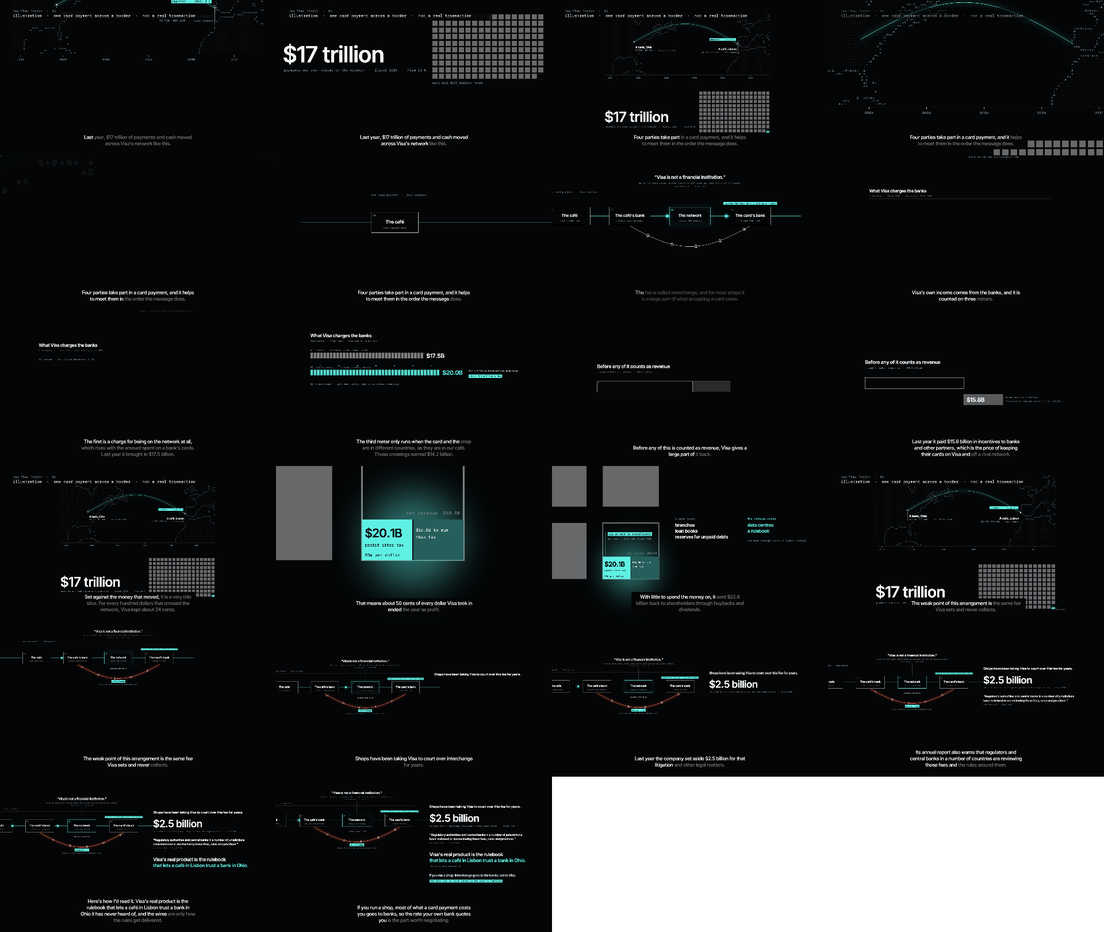
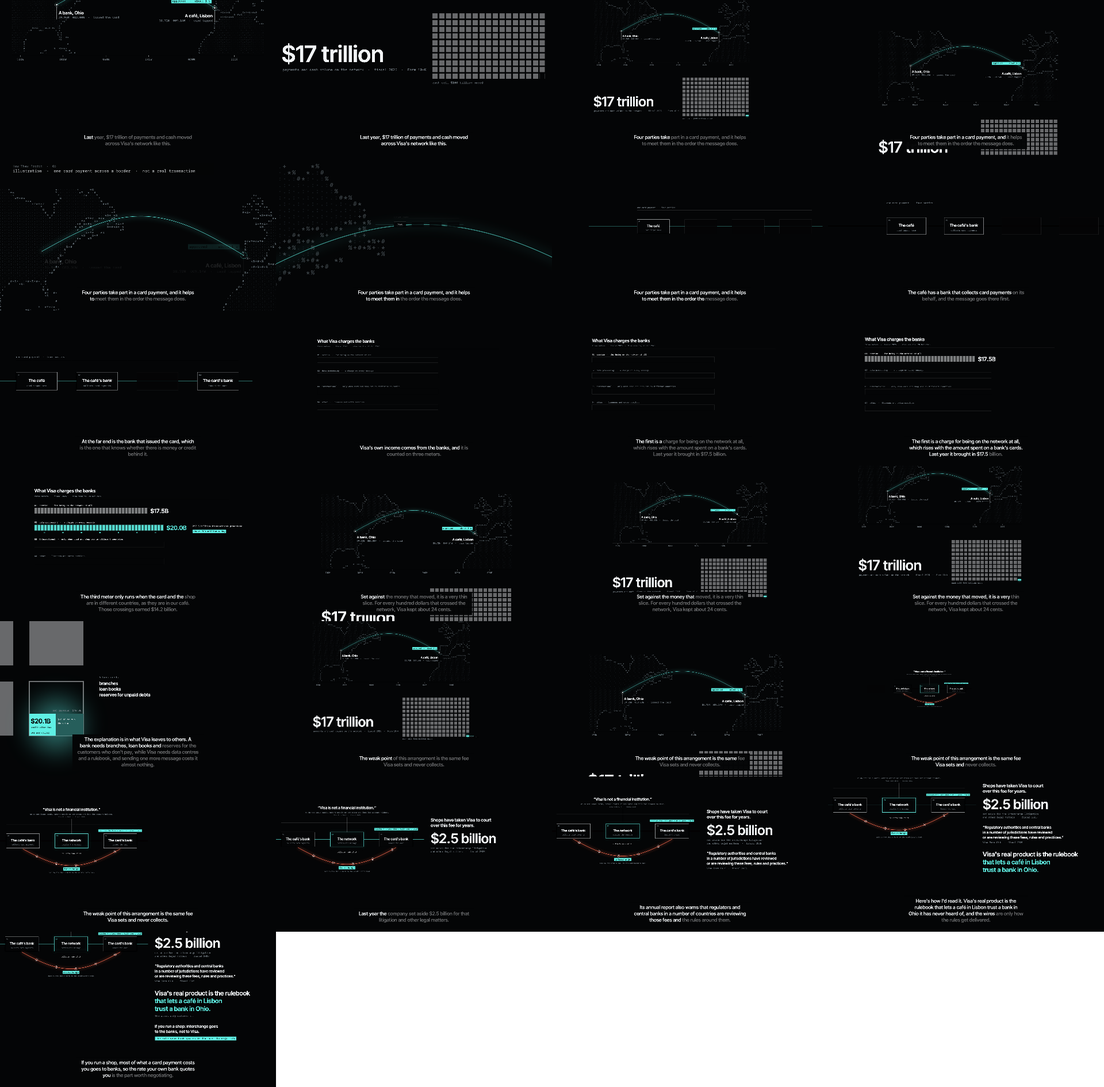
HTP 06 pass 4 after CRITIC_v3: the camera gets over its target before closing in, meter tracks from the first second, a larger last chapter, the four places sketched in

diff --git a/lab/ch2/ep06/flow.py b/lab/ch2/ep06/flow.py
@@ -135,6 +135,10 @@ def ocean(c, t, z=1.0, far=1.0, near=0.0):
 
 
 # ---------------------------------------------------------------- scale 12: the four parties on the wire
+def lerp_(a, b, u):
+    return a + (b - a) * u
+
+
 def lod(z, a, b):
     """Detail that only exists once the camera is close enough to read it."""
     return sm(z, a, b)
@@ -212,14 +216,20 @@ def route(c, t, z):
     k = lod(z, 1.6, 3.2)
     if k <= 0:
         return
-    c.drawLine(NX[0] - 60, NY, NX[3] + NODE_W / 2 + 22, NY, skia.Paint(Color=col(K["acc"], 0.9 * k), AntiAlias=True, StrokeWidth=0.18))
-    text(c, "one card payment  ·  four parties", NX[0] - NODE_W / 2, NY - 17, mono(1.7), K["dim"], k * sm(t, L("four"), L("four") + 0.8), 0.05)
-    c.drawLine(NX[0] - NODE_W / 2, NY - 15, NX[3] + NODE_W / 2, NY - 15, hair(0.35 * k, 0.1))
-    party(c, 0, k * sm(t, L("four") + 1.2, L("four") + 1.9), t)
+    c6_ = sm(t, L("weak") + 1.5, L("weak") + 2.6) if "weak" in tl.IDS else 0.0
+    c.drawLine(lerp_(NX[0] - 60, NX[1] - NODE_W / 2 - 6, c6_), NY, NX[3] + NODE_W / 2 + 10, NY, skia.Paint(Color=col(K["acc"], 0.9 * k), AntiAlias=True, StrokeWidth=0.18))
+    text(c, "one card payment  ·  four parties", NX[0] - NODE_W / 2, NY - 17, mono(1.7), K["dim"], k * sm(t, L("four"), L("four") + 0.8) * (1 - c6_), 0.05)
+    c.drawLine(lerp_(NX[0] - NODE_W / 2, NX[1] - NODE_W / 2, c6_), NY - 15, NX[3] + NODE_W / 2, NY - 15, hair(0.35 * k, 0.1))
+    c6 = sm(t, L("weak") + 1.5, L("weak") + 2.6) if "weak" in tl.IDS else 0.0     # the last chapter frames the three right-hand parties
+    for i in range(4):                                               # the four places, sketched before they are named
+        r = skia.Rect.MakeXYWH(NX[i] - NODE_W / 2, NY - NODE_H / 2, NODE_W, NODE_H)
+        c.drawRect(r, skia.Paint(Color=col(K["bg"], 0.9 * k)))
+        c.drawRect(r, hair(0.2 * k * sm(t, L("four") + 0.6 + 0.2 * i, L("four") + 1.2 + 0.2 * i) * (1 - c6 if i == 0 else 1), 0.1))
+    party(c, 0, k * sm(t, L("four") + 1.2, L("four") + 1.9) * (1 - c6), t)
     party(c, 1, k * sm(t, L("shopbank") + 0.2, L("shopbank") + 0.9), t)
     party(c, 3, k * sm(t, L("yourbank") + 0.2, L("yourbank") + 0.9), t)
     party(c, 2, k * sm(t, L("quote") + 0.2, L("quote") + 0.9), t, hot=True)
-    wire_packets(c, t, k * sm(t, L("quote") + 1.0, L("quote") + 1.6))
+    wire_packets(c, t, k * sm(t, L("quote") + 1.0, L("quote") + 1.6) * (1 - c6))
     # the annual report, set above the network
     kq = sm(t, tl.word("quote", "plain") - 0.2, tl.word("quote", "plain") + 0.5)
     if kq > 0:
@@ -233,9 +243,10 @@ def route(c, t, z):
     # interchange
     ki = sm(t, L("fee") + 0.4, L("fee") + 2.2)
     interchange(c, t, ki)
-    box_label(c, "interchange", (NX[1] + NX[3]) / 2, NY + NODE_H / 2 + 19.5, sm(t, L("interchange") + 0.3, L("interchange") + 0.9), 2.0, "center")
+    gone6 = 1.0 - (sm(t, L("meters") + 0.2, L("meters") + 1.0) if "meters" in tl.IDS else 0.0) + (sm(t, L("weak") + 2.5, L("weak") + 3.5) if "weak" in tl.IDS else 0.0)
+    box_label(c, "interchange", (NX[1] + NX[3]) / 2, NY + NODE_H / 2 + 19.5, sm(t, L("interchange") + 0.3, L("interchange") + 0.9) * (1.0 if gone6 > 0.5 else 0.0), 2.0, "center")
     text(c, "paid by the shop's bank to the cardholder's bank", (NX[1] + NX[3]) / 2, NY + NODE_H / 2 + 22.6, mono(1.35), K["dim"],
-         sm(t, L("interchange") + 1.2, L("interchange") + 1.9), 0.05, "center")
+         sm(t, L("interchange") + 1.2, L("interchange") + 1.9) * min(1.0, gone6), 0.05, "center")
     ks = sm(t, tl.word("sets", "writes") - 0.2, tl.word("sets", "writes") + 0.5)
     c.drawRect(skia.Rect.MakeXYWH(NX[2] - 13, NY + NODE_H / 2 + 1.2, 26, 5.2), skia.Paint(Color=col(K["bg"], 0.92 * ks)))
     text(c, "sets the default rates", NX[2], NY + NODE_H / 2 + 3.0, mono(1.45), K["acc"], ks * (1 - sm(t, L("fee") - 9, L("fee") - 8)), 0.05, "center")
@@ -297,10 +308,12 @@ def _meters(c, t, k0):
     c.drawLine(X0, MT + 5.2, X0 + 150 * k0, MT + 5.2, hair(0.3, 0.1))
     for i, (lid, lab, v, disp, wl, ww) in enumerate(METERS):
         y = MT + 12 + i * 13.0
-        ka = sm(t, L(lid) + 0.2, L(lid) + 0.8) if lid != "processing" else sm(t, L("count") + 0.2, L("count") + 0.8)
+        ka = sm(t, L("meters") + 0.7 + 0.25 * i, L("meters") + 1.3 + 0.25 * i)
         if ka <= 0:
             continue
-        text(c, lab, X0, y - 1.4, mono(1.5), K["dim"], ka, 0.05)
+        on = sm(t, L(lid) + 0.2, L(lid) + 0.8) if lid != "processing" else sm(t, L("count") + 0.2, L("count") + 0.8)
+        text(c, lab, X0, y - 1.4, mono(1.5), K["light"] if on > 0.5 else K["dim"], ka, 0.05)
+        c.drawRect(skia.Rect.MakeXYWH(X0, y, 100, 4.4), hair(0.22 * ka, 0.1))            # the empty track
         tv = W_(wl, ww, -0.5)
         kb = sm(t, tv, tv + 1.2)
         hot = lid == "processing"
@@ -314,7 +327,7 @@ def _meters(c, t, k0):
     if kc > 0:
         for j in range(7):
             u = (t * 0.22 + j / 7) % 1.0
-            c.drawRect(skia.Rect.MakeXYWH(X0 + 100 * u, yc - 3.4, 1.1, 0.7), skia.Paint(Color=col(K["acc"], kc * (1 - abs(2 * u - 1)) ** 0.5), AntiAlias=True))
+            c.drawRect(skia.Rect.MakeXYWH(X0 + 100 * u, yc + 5.6, 1.1, 0.7), skia.Paint(Color=col(K["acc"], kc * (1 - abs(2 * u - 1)) ** 0.5), AntiAlias=True))
 
 
 def _handed(c, t):
@@ -392,21 +405,28 @@ def rulebook(c, t, z):
     g.setStrokeWidth(0.9)
     c.drawPath(p, g)
     c.drawPath(p, skia.Paint(Color=col(RED, kr), AntiAlias=True, Style=skia.Paint.kStroke_Style, StrokeWidth=0.32))
-    text(c, "Shops have been taking Visa to court over this fee for years.", RX, NY - 13, sans(3.5), K["light"], sm(t, L("sued") + 0.2, L("sued") + 0.9))
+    ksu = sm(t, L("sued") + 0.2, L("sued") + 0.9)
+    text(c, "Shops have taken Visa to court", RX, NY - 16, sans(3.9), K["light"], ksu)
+    text(c, "over this fee for years.", RX, NY - 11.2, sans(3.9), K["light"], ksu)
     ks = sm(t, W_("suits", "set", -0.3), W_("suits", "set", 0.5))
-    text(c, "$2.5 billion", RX, NY + 1.5, sans(10.5), K["light"], ks)
-    text(c, "set aside for the interchange litigation and other legal matters  ·  fiscal 2025", RX, NY + 6.4, mono(1.75), K["dim"], ks, 0.05)
+    text(c, "$2.5 billion", RX, NY + 3.5, sans(12.0), K["light"], ks)
+    text(c, "set aside for the interchange litigation", RX, NY + 8.6, mono(2.0), K["dim"], ks, 0.05)
+    text(c, "and other legal matters  ·  fiscal 2025", RX, NY + 11.6, mono(2.0), K["dim"], ks, 0.05)
     kg = sm(t, L("regulators") + 0.6, L("regulators") + 1.4)
-    text(c, "“Regulatory authorities and central banks in a number of jurisdictions", RX, NY + 16, sans(3.1), K["light"], kg)
-    text(c, "have reviewed or are reviewing these fees, rules and practices.”", RX, NY + 20.4, sans(3.1), K["light"], kg)
-    text(c, "Visa Form 10-K  ·  fiscal 2025", RX, NY + 24.0, mono(1.6), K["dim"], kg, 0.05)
+    for i, ln in enumerate(("“Regulatory authorities and central banks", "in a number of jurisdictions have reviewed",
+                            "or are reviewing these fees, rules and practices.”")):
+        text(c, ln, RX, NY + 21 + i * 4.5, sans(3.3), K["light"], kg)
+    text(c, "Visa Form 10-K  ·  fiscal 2025", RX, NY + 34.0, mono(1.9), K["dim"], kg, 0.05)
     kv = sm(t, W_("verdict", "product", -0.4), W_("verdict", "product", 0.4))
-    text(c, "Visa's real product is the rulebook", RX, NY + 37, sans(5.0), K["light"], kv)
-    text(c, "that lets a café in Lisbon trust a bank in Ohio.", RX, NY + 43.2, sans(5.0), K["acc"], sm(t, W_("verdict", "lets", -0.3), W_("verdict", "lets", 0.5)))
-    text(c, "The wires only deliver it.", RX, NY + 48.4, mono(2.1), K["dim"], sm(t, W_("verdict", "wires", -0.3), W_("verdict", "wires", 0.5)), 0.05)
-    kshop = sm(t, W_("shop", "rate", -0.4), W_("shop", "rate", 0.4))
-    text(c, "If you run a shop: interchange goes to the banks, not to Visa.", RX, NY + 58, sans(3.3), K["light"], sm(t, L("shop") + 0.3, L("shop") + 1.0))
-    box_label(c, "the rate your own bank quotes is the part to negotiate", RX + 0.9, NY + 63.4, kshop, 2.2)
+    kv2 = sm(t, W_("verdict", "lets", -0.3), W_("verdict", "lets", 0.5))
+    text(c, "Visa's real product is the rulebook", RX, NY + 46, sans(5.6), K["light"], kv)
+    text(c, "that lets a café in Lisbon", RX, NY + 53, sans(5.6), K["acc"], kv2)
+    text(c, "trust a bank in Ohio.", RX, NY + 60, sans(5.6), K["acc"], kv2)
+    text(c, "The wires only deliver it.", RX, NY + 65.2, mono(2.2), K["dim"], sm(t, W_("verdict", "wires", -0.3), W_("verdict", "wires", 0.5)), 0.05)
+    ksh = sm(t, L("shop") + 0.3, L("shop") + 1.0)
+    text(c, "If you run a shop: interchange goes", RX, NY + 75, sans(3.6), K["light"], ksh)
+    text(c, "to the banks, not to Visa.", RX, NY + 79.6, sans(3.6), K["light"], ksh)
+    box_label(c, "the rate your bank quotes is the part to negotiate", RX + 0.9, NY + 85.4, sm(t, W_("shop", "rate", -0.4), W_("shop", "rate", 0.4)), 2.3)
 
 
 def last_crossing(c, t):
@@ -434,24 +454,23 @@ def keys2():
     lx, ly = R.LIT
     CELL = R.CELL
     rc = ((NX[1] + NX[3]) / 2, NY + 11)
-    wk = (X0 + 156, NY + 8)                                             # the last chapter: the route and its column in one frame
-    return [(L("meters") + 2.2, (X0 + 80, MT + 30, 8.4)), (E("service"), (X0 + 80, MT + 30, 8.8)),
-            (L("count") + 2.0, (X0 + 86, MT + 31, 8.9)), (E("processing"), (X0 + 88, MT + 32, 9.2)),
+    wk = (X0 + 163, NY + 8)                                             # the last chapter: the route and its column in one frame
+    return [(L("meters") + 2.2, (X0 + 80, MT + 34, 8.4)), (E("service"), (X0 + 80, MT + 34, 8.8)),
+            (L("count") + 2.0, (X0 + 86, MT + 34, 8.9)), (E("processing"), (X0 + 88, MT + 35, 9.2)),
             (L("border") + 2.4, (X0 + 80, MT + 36, 9.0)), (E("other"), (X0 + 78, MT + 38, 9.3)),
             (L("back") + 2.2, (X0 + 70, HT + 12, 9.2)), (E("incentives"), (X0 + 74, HT + 15, 9.6)),
             (E("net"), (X0 + 58, HT + 13, 10.6)),
-            (L("cents") + 2.6, (960, 800, 0.62)), (W_("cents", "kept", 0.4), (R.LITC[0] + 40, R.LITC[1] + 26, 6.4)),
+            (L("cents") + 2.6, (960, 880, 0.60)), (W_("cents", "kept", 0.4), (R.LITC[0] + 40, R.LITC[1] + 26, 6.4)),
             (E("cents"), (R.LITC[0] + 44, R.LITC[1] + 26, 6.9)),
             (L("thin") + 2.6, (lx + CELL / 2 + 6, ly + CELL * 0.72, 17.0)), (E("costs"), (lx + CELL / 2 + 4, ly + CELL * 0.76, 19.0)),
             (E("half"), (lx + CELL / 2, ly + CELL * 0.8, 21.0)),
-            (L("why") + 2.6, (lx + CELL + 44, ly + 8, 11.5)), (E("why"), (lx + CELL + 48, ly + 9, 12.0)),
+            (L("why") + 2.6, (lx + CELL + 34, ly + 8, 11.0)), (E("why"), (lx + CELL + 36, ly + 9, 11.3)),
             (L("returned") + 2.2, (lx + CELL / 2 + 36, ly + 10, 11.4)), (E("returned"), (lx + CELL / 2 + 36, ly + 9, 11.8)),
-            (L("weak") + 1.5, (960, 800, 0.62)),
-            (L("weak") + 3.8, (wk[0] - 30, wk[1], 7.6)), (E("weak"), (wk[0] - 22, wk[1], 7.4)),
-            (L("sued") + 2.2, (wk[0], wk[1], 6.4)), (E("suits"), (wk[0] + 2, wk[1] + 1, 6.6)),
-            (E("regulators"), (wk[0] + 4, wk[1] + 6, 6.6)),
-            (L("verdict") + 2.6, (wk[0] + 6, wk[1] + 16, 6.5)), (E("verdict"), (wk[0] + 6, wk[1] + 18, 6.7)),
-            (L("shop") + 2.0, (wk[0] + 6, wk[1] + 22, 6.6)), (E("shop"), (wk[0] + 6, wk[1] + 23, 6.8)),
+            (L("weak") + 1.5, (960, 880, 0.60)),
+            (L("weak") + 3.8, (wk[0], wk[1], 7.7)), (E("suits"), (wk[0], wk[1] + 2, 7.8)),
+            (E("regulators"), (wk[0], wk[1] + 10, 7.8)),
+            (L("verdict") + 2.6, (wk[0], wk[1] + 30, 7.7)), (E("verdict"), (wk[0], wk[1] + 33, 7.8)),
+            (L("shop") + 2.0, (wk[0], wk[1] + 46, 7.7)), (E("shop"), (wk[0], wk[1] + 47, 7.8)),
             (L("close") + 1.6, (960, 440, 1.0)), (E("close") + 3.0, (960, 436, 1.04))]
 
 
@@ -466,8 +485,8 @@ def camera(t):
             (E("ocean"), (960, 520, 1.0)), (L("scale") - 0.3, (960, 560, 1.0)), (L("scale") + 1.6, (960, 1400, 1.02)),
             (L("never") - 0.5, (960, 1404, 1.06)), (L("never") + 5.5, (R.LITC[0] - 60, R.LITC[1] + 20, 4.6)),
             (E("never") - 0.2, (R.LITC[0] - 30, R.LITC[1] + 24, 5.2)),
-            (L("four") + 1.5, (960, 800, 0.62)),                        # the whole page, on the way to the wire
-            (L("four") + 4.4, (NX[0] + 12, NY + 2, 11.0)), (L("shopbank") + 1.0, (NX[0] + 22, NY + 2, 11.5)),
+            (L("four") + 1.5, (960, 880, 0.60)),                        # the whole page, on the way to the wire
+            (L("four") + 4.4, (NX[0] + 34, NY + 2, 8.6)), (L("shopbank") + 1.0, (NX[0] + 40, NY + 2, 9.0)),
             (L("yourbank") + 1.5, (rc[0] + 10, rc[1], 9.6)), (L("quote") - 0.3, (rc[0], rc[1], 9.4)),
             (L("quote") + 2.2, (NX[2], NY - 12, 11.5)), (E("quote"), (NX[2], NY - 13, 12.2)),
             (L("risk") + 2.2, ((NX[2] + NX[3]) / 2 + 2, NY - 9, 10.4)), (E("risk"), ((NX[2] + NX[3]) / 2 + 3, NY - 8, 10.9)),
@@ -478,8 +497,13 @@ def camera(t):
     for (ta, a), (tb, b) in zip(keys, keys[1:]):
         if t <= tb:
             u = sm(t, ta, tb)
-            return (a[0] + (b[0] - a[0]) * u, a[1] + (b[1] - a[1]) * u,
-                    math.exp(math.log(a[2]) + (math.log(b[2]) - math.log(a[2])) * u))
+            up = uz = u
+            if b[2] > a[2] * 1.6:                                    # zooming in: get over the target, then close in
+                up, uz = 1 - (1 - u) ** 3.2, u ** 1.7
+            elif b[2] < a[2] / 1.6:                                  # zooming out: open up, then travel
+                up, uz = u ** 2.4, 1 - (1 - u) ** 2.6
+            return (a[0] + (b[0] - a[0]) * up, a[1] + (b[1] - a[1]) * up,
+                    math.exp(math.log(a[2]) + (math.log(b[2]) - math.log(a[2])) * uz))
     return keys[-1][1]
 
 
@@ -495,8 +519,8 @@ def wrap(s, n=54):
     return out + [cur]
 
 
-def screen(c, t, z):
-    a = 1.0 if t < L("scale") - 0.5 else 1.0 - sm(z, 1.15, 1.6)
+def screen(c, t, z, cy=0.0):
+    a = (1.0 if t < L("scale") - 0.5 else 1.0 - sm(z, 1.15, 1.6)) * (1.0 - sm(cy, 620, 820)) * sm(z, 0.8, 0.98)
     if a > 0:
         c.drawRect(skia.Rect.MakeXYWH(70, 52, 1420, 84), skia.Paint(Color=col(K["bg"], 0.94 * a)))
         text(c, "How They Profit  ·  06", 90, 84, mono(22), K["dim"], a, 0.5)
@@ -538,7 +562,7 @@ def frame(surf, t):
     if "close" in tl.IDS:
         last_crossing(c, t)
     c.restore()
-    screen(c, t, z)
+    screen(c, t, z, cy)
     return surf.makeImageSnapshot()
 
 

diff --git a/lab/ch2/ep06/CRITIC_v3.md b/lab/ch2/ep06/CRITIC_v3.md
@@ -1,0 +1,130 @@
+# CRITIC v3: HTP06 (Visa) · HTP06_full_v3.mp4 (1280x720, 4:18, 30 fps)
+
+Third independent critic. Did not build the film, did not write CRITIC_v1 or CRITIC_v2. Judged from the render only.
+Method: 129 frames at 2 s steps on 9 contact sheets (16 per sheet, all read); quarter-second strips, all read, of
+0:24.5-0:31, 2:32-2:40, 3:24.5-3:31, 1:30-1:40, 2:14-2:20 and 4:06.5-4:09.5; 28 full-resolution frames read;
+lit-pixel share, red-pixel count and frame difference on all 7,740 frames (caption area excluded); ebur128, sample
+peak and RMS against `build_george/lines.json`. Timestamps accurate to about 0.25 s. Pixel positions are in the
+1280x720 frame. Text sizes are approximate cap heights measured on full-resolution frames.
+
+**All 40 earlier items: 13 FIXED · 8 PARTLY · 19 NOT FIXED · 0 WORSE**
+(v1's 29: 10 FIXED · 6 PARTLY · 13 NOT FIXED. v2's 11 new: 3 FIXED · 2 PARTLY · 6 NOT FIXED.)
+**New in v3: 1 BLOCKER · 4 FIX · 3 NICE**
+**BLOCKERs standing: 3** (transits, item 2 with N1/N2; the 10 s near-empty frame at 1:33.5-1:43, new; the spoken
+interchange claim, item 4, which the builder lists as open)
+
+## 0. The builder's six claims for v3
+
+| Claim | Verdict | Evidence |
+|---|---|---|
+| (a) each block fades out when its chapter ends, nothing intrudes at an edge | **Mostly true, two misses** | The meters scene is clean of "The fee pays banks…" and of the cut "$20.0B" rows. But an orphan mono line "paid by the shop's bank to the cardholder's bank" sits on the top edge 1:33.5-1:40, and the café node plus its "one card payment · four parties" label are cut by the left edge for the whole last chapter (3:30-4:07). |
+| (b) the three transits pass through one composed view, no ghost text, no cut-off grid, no black frame | **False on all three counts** | The overview exists and holds about 1 s each time (0:27.0-0:28.0, 2:35.75-2:37.25, 3:27.25-3:28.0). Around it: a fully black frame 0:29.2-0:29.77 (0.00% lit, 17 frames); dimmed ghost labels "A bank, Ohio" / "A café, Lisbon" at 0:28.5; giant chopped map glyphs and cut axis labels at 0:28.5-0:29.0, 2:35.25-2:35.5, 3:28.5-3:29.0; the grid cut by the bottom edge and under the caption plate at 0:28.25-0:28.5, 2:35.5, 3:28.25. |
+| (c) last chapter is one balanced frame, red in shot throughout, nothing clipped | **Two of three** | Red pixels are present continuously 3:29.4-4:07.9 and nowhere else in the film: true. Left/right balance: true. "Nothing clipped": false, the café node is cut by the left edge throughout. And the frame is too small: see V4, V5. |
+| (d) labels in the lit cell sit inside their boxes, nothing crosses a border or divider | **True inside the cell, false against the frame** | 3:02, 3:21, 3:25: "50¢ per dollar", "buybacks and dividends, fiscal 2025", "net revenue $40.0B" all inside, leader line clear, right column fully in frame. But at 3:10-3:19 the camera shoves the cell against the left edge: "$20.1B", "profit after tax" and "50¢" sit at x 0-7, the "$" and the cell border clipped (3:16). |
+| (e) the "illustration" note is larger | **True** | About 14 px cap height (was about 9), white, legible. Side effect: V2. |
+| (f) "$17 trillion" appears as the camera arrives, no pile-up under the caption at 0:13-0:16 | **True for the headline, not for the frame** | 0:15.5 and 0:17: headline and source line clean, "Form 10-K" clear of the grid. 0:14.5 is still a mess of leftovers: clipped "approved · about 1 s" tag and chopped arc on the top edge, the note printed over the fading "A bank, Ohio" and "Lisbon" labels. |
+
+## 1. Every earlier item
+
+### CRITIC_v1 (29)
+
+| # | v1 sev | Time | v2 | v3 | Evidence in v3 |
+|---|---|---|---|---|---|
+| 1 | BLOCKER | 2:44-3:26 | FIXED | **FIXED** | 3:02, 3:06, 3:21: smooth radial halo, no hard-edged black slab. |
+| 2 | BLOCKER | 0:28, 2:33, 3:28 | PARTLY | **NOT FIXED** | Still a BLOCKER. 0:28.5: ghost "A bank, Ohio / 39.96N…" and "A café, Lisbon" at about 40% grey, "00W" cut by the left edge. 0:28.75-0:29.0, 2:35.25-2:35.5, 3:28.5-3:28.75: frame of giant chopped glyphs and a cut arc. 0:29.2-0:29.77: pure black. 3:29.0: near-black with a faint ghost arc; 3:29.25: nodes as a thumbnail cut by the top edge. |
+| 3 | BLOCKER | 3:31-4:07 | FIXED | **PARTLY** | No leftovers of other scenes. But the reframing put the café node half off the left edge for the whole chapter ("e café", "fé", then only "é") and cut its label ("ard payment · four parties"). Slipped back from v2. |
+| 4 | BLOCKER (facts) | 1:05, 3:59 | PARTLY | **PARTLY** | On screen: "If you run a shop: interchange goes to the banks, not to Visa." Spoken and captioned unchanged: "a large part of what accepting a card costs" (1:05-1:10), "most of what a card payment costs you goes to banks" (3:59-4:07). Builder lists as open. Still a hard stop. |
+| 5 | FIX | 3:28-4:07 | PARTLY | **FIXED** | Red only on the interchange arc, in shot 3:29.4-4:07.9 without a gap; "$2.5 billion" white. |
+| 6 | FIX | 3:36-4:07 | FIXED | **FIXED** | No strike-through. The wire from the card's bank now ends exactly on the "$" of "$2.5 billion" (3:42, x 727): touching, not crossing. See V8. |
+| 7 | FIX | 0:53-1:01, 1:11-1:17 | PARTLY | **FIXED** | 0:48-1:30: quote, detail line and source whole in every sampled frame, incl. 1:12 and 1:16. |
+| 8 | FIX | 2:39-2:40.5 | FIXED | **FIXED** | 2:40.5: lit cell and its three-line label clear of the plate. |
+| 9 | FIX | 0:26, 2:36, 3:26 | NOT FIXED | **NOT FIXED** | Caption plate on the full-frame grid at 0:26.25-0:26.5, 2:38.75-2:39.75, 3:26.25-3:26.5. "$17 trillion" cut by an edge or half under the plate at 0:26.75 ("illion"), 0:28.0-0:28.25, 2:35.75-2:36.0 ("$17 tril…"), 2:37.75-2:38.25 ("trillion", "ion"), 3:26.75-3:27.0 ("n", "rillion"), 3:28.0. In the overview itself the plate covers the headline's source line. |
+| 10 | FIX | map shots, final frame | PARTLY | **FIXED** | Final frame (4:17.9) and 4:08.75-4:18 clean. The mid-film map shots now show the grid on purpose as part of the overview. |
+| 11 | FIX | 0:13-0:21 | PARTLY | **FIXED** | 0:15.5, 0:17: "Form 10-K" ends at x 695, grid starts at x 723; no axis labels along the top. A different collision replaces it: V2. |
+| 12 | FIX | 3:02-3:26 | NOT FIXED | **PARTLY** | All four collisions inside the cell are gone and the right column fits (3:21 "…almost nothing" ends x 1176). Remaining: 3:10-3:19 cell hard against the left edge, "$" clipped (3:16); 3:25.75 caption plate touches the cell's bottom edge. |
+| 13 | FIX | 1:32-2:09, 2:18-2:33 | NOT FIXED | **PARTLY** | "The fee pays banks…" and the sliced "$20.0B/$14.2B" rows are gone. Orphan "paid by the shop's bank to the cardholder's bank" (about 6 px) on the top edge 1:33.5-1:40. The fade also emptied the frame: V1. |
+| 14 | FIX | 0:30-0:44 | NOT FIXED | **NOT FIXED** | 0:30: one box about 220 px wide in a black frame. Lit pixels stay under 2% from 0:28.7 to 0:43.8 (15 s). Sub-labels about 7 px. |
+| 15 | FIX | throughout | NOT FIXED | **NOT FIXED** | Meter labels and "three meters · fiscal 2025 · Visa results, 28 Oct 2025" about 6-7 px cap height (1:50, 2:05); "257.5 billion transactions processed" still an 8 px note; "charged to banks and partners · $55.8 billion" about 6 px (2:20); "set aside for the interchange litigation…" about 6 px (3:42); node sub-labels in the last chapter about 5-6 px. |
+| 16 | FIX | 0:00-0:11 | PARTLY | **FIXED** | From frame 0, about 14 px cap height, white. Still a fixed corner label (CRAFT bans corner labels: taste). |
+| 17 | FIX | 0:23-0:27 | FIXED | **FIXED** | 0:24-0:26: lit cell unlabelled. |
+| 18 | FIX | 2:45-2:57 | NOT FIXED | **NOT FIXED** | 165.7-177.5 s: mean frame difference 0.119, 73% of frames under 0.15. Same slow push on a flat block; the scene still sits on one object for 42 s. |
+| 19 | FIX | three transits | NOT FIXED | **PARTLY** | The route now pauses on a real overview for about 1 s. It is still cell → full-frame grid → overview → push through the map → black/thumbnail → next scene, three times. Peak frame difference of the film is still here (61.0 at 3:26.3). "The weak point…" is still spoken over it. |
+| 20 | FIX | 0:01-0:08 | NOT FIXED | **NOT FIXED** | Unchanged (builder lists as open). |
+| 21 | FIX | six lines | NOT FIXED | **NOT FIXED** | "Last year" captioned at 0:14, 1:41, 1:49, 2:21, 2:49, 3:34 (builder lists as open). |
+| 22 | FIX | 4:15-4:18 | FIXED | **FIXED** | Bed -35.3 dB at 4:15.0, -59.6 dB in the last 0.25 s, -76.8 dB in the last 50 ms. No end card. |
+| 23 | NICE | 0:11-0:13 | PARTLY | **PARTLY** | Glyphs knocked out behind the labels; landmasses unchanged. |
+| 24 | NICE | 0:09 | NOT FIXED | **NOT FIXED** | 0:08-0:09: "A café, Lisbon" behind the caption plate (ascender stubs only), coordinates cut to "38.7". |
+| 25 | NICE | caption cross-fades | NOT FIXED | **NOT FIXED** | Two captions superimposed at 0:20.0, 0:26.0, 2:16.25-2:16.5, 3:25.75 (on top of the lit cell, with a ghost "billion" beside it), 4:07.5. |
+| 26 | NICE | 0:48-1:30 | NOT FIXED | **NOT FIXED** | Detail line still ends "…for account holders." with a full stop. |
+| 27 | NICE | 3:31-4:07 | NOT FIXED | **NOT FIXED** | "Shops have been taking Visa to court over this fee for years." on screen 3:30-4:07. |
+| 28 | NICE | 2:44-3:26 | NOT FIXED | **NOT FIXED** | Halo round the lit cell, glow on the arcs and the red arc. |
+| 29 | NICE | whole film | NOT FIXED | **NOT FIXED** | Mix identical to v2: see section 3. |
+
+### CRITIC_v2 new issues (11)
+
+| # | v2 sev | Time | v3 | Evidence in v3 |
+|---|---|---|---|---|
+| N1 | FIX | 0:28.9-0:30.4 | **NOT FIXED** | 0.00% lit 0:29.2-0:29.77; under 1.2% lit 0:28.87-0:31.9 (3 s). Then one small box. Identical to v2. |
+| N2 | FIX | 2:34.5-2:35.5 | **NOT FIXED** | 2:34.25-2:35.0 the revenue bar shrinks to a thumbnail on the top edge (lit minimum 0.08%), 2:35.25 giant chopped glyphs and "080W" cut by the left edge. |
+| N3 | FIX | 3:31.9-3:35.5 | **FIXED** | The first line now builds beside the route and the red arc; no void. |
+| N4 | FIX | 3:36-4:07 | **PARTLY** | Left/right balance fixed. Scale not: lit share 2.6-6.3% for the whole chapter; conclusion about 14 px cap height, notes 6 px. See V5. |
+| N5 | FIX | 4:00-4:07 | **FIXED** | 4:00-4:07: nothing in the right column touches the top edge; all six lines whole at 4:06. |
+| N6 | FIX | 0:13.5-0:15.5 | **PARTLY** | Headline and source line clean from 0:15.5. 0:14.5 still shows a clipped "approved" tag, a chopped arc and the note printed over fading labels. |
+| N7 | FIX | 3:29.3-3:31.5 | **FIXED** | 3:29.5-3:31.5: no meter rows or quote fragments; only the cut café node (V4). |
+| N8 | NICE | 4:07.7-4:08.7 | **NOT FIXED** | 4:07.75-4:08.0: whole chapter as a thumbnail with the red arc in it; 4:08.25-4:08.5: giant chopped glyphs. |
+| N9 | NICE | 1:48-2:16 | **NOT FIXED** | 2:05: ticks print across "02 data processing · a charge on every message" (first three ticks sit on the words). |
+| N10 | NICE | 0:00.0 | **NOT FIXED** | Frame 0: header, a faint ring, dim glyphs on the right third; no café label. |
+| N11 | NICE | 0:12-0:13 | **NOT FIXED** | 0:12.5: only "38.72N 009.14" is left of the café label, cut by the right edge; "100W" row halved by the bottom edge. |
+
+## 2. New issues in v3
+
+| # | Time | Sev | What | Suggested fix |
+|---|---|---|---|---|
+| V1 | 1:33.5-1:43.0 | **BLOCKER** | About 9.5 s of near-empty frame, the longest hole in the film, created by the v3 fade. Lit pixels under 1.2% from 1:32.8 to 1:42.9; 92% of frames near-still. On screen: a 14 px title "What Visa charges the banks", a 6 px sub-line, later a 6 px label "01 service · for being on the network at all", plus the orphan line on the top edge. The narration says "counted on three meters" and describes the first meter for 7 s with no meter drawn; the bar only arrives at about 1:42. | Draw the three empty meter tracks with their labels as "three meters" is said (1:34), fill the first while it is described (1:36-1:44), and frame the block to fill the width. Kill the orphan line. |
+| V2 | 0:17-0:24 | FIX | The enlarged illustration note is pinned to the screen, so the grid slides under it: a black knock-out bar (x 718-995, y 55-92) eats the top row of cells and "not a real transaction" sits on the grid. Reads as a render fault. At 0:20 "$17 trillion" is also cut by the left edge (the "$" and "payments" clipped). | Fade the note out when the camera leaves the map (0:14) and bring it back on map shots; hold "$17 trillion" 40 px in from the edge until the push starts. |
+| V3 | 3:10-3:19 | FIX | Lit cell jammed into the left edge while the bank/network lists build: "$20.1B", "profit after tax", "50¢ per dollar" at x 0-7, "$" and the cell border clipped at 3:16. | Aim the camera 120 px left, or let the cell leave completely. |
+| V4 | 3:30-4:07 | FIX | Café node cut by the left edge for 37 s and its label cut ("ard payment · four parties", then "four parties"). The first of the four parties is the one missing from the film's summary frame. | Pull back about 8% or shift 110 px left; the right column has the room. |
+| V5 | 3:30-4:07 | FIX | Last chapter is too small. The whole composition sits in a band about 270 px tall at 3:32 (y 165-435, top 160 px and everything below empty) and drifts to y 60-490 by 4:06. Sizes (cap height): "$2.5 billion" about 30 px; verdict "Visa's real product is the rulebook…" about 14 px; "Shops have been taking…" and the shop advice about 11 px; regulators quote about 10 px; "set aside for…", "Visa Form 10-K", "The wires only deliver it.", node sub-labels, "paid by the shop's bank…" 5-6 px: unreadable at 720p, hopeless on a phone. | Scale the frame up about 1.3x (it has 30% spare height), verdict at 22 px cap height or more, nothing under 11 px; hold one framing instead of drifting. |
+| V6 | 2:17.25-2:17.75 | NICE | Outgoing meters and incoming "Before any of it counts as revenue" block are superimposed in the same place for half a second while the camera moves: double exposure. | Finish the fade-out before the fade-in, or separate them in space. |
+| V7 | 2:18-2:21.5 | NICE | 3.5 s of an empty outlined bar about 620 px wide with a 6 px sub-line; lit about 2%. | Start the $55.8 billion fill at 2:18. |
+| V8 | 3:36-4:07 | NICE | The wire leaving the card's bank runs into the "$" of "$2.5 billion" like a connector, implying the money flows there. | End the wire 60 px short. |
+
+Checked and not found: no block vanishes while the narration is still on it (fades at 1:32.5, 2:17 and 2:43 all
+follow the end of their lines); no flash; no frozen stretch of 1 s or more (frozen share 2.9%, near-still 11.7%);
+red appears once and only on the arc. Fast passages (frame difference over 6 for 0.5 s or more): 0:08.2-0:08.6,
+0:20.4-0:24.8, 0:25.7-0:27.4, 1:31.5-1:32.4, 2:37.5-2:40.9, 3:25.7-3:27.5.
+
+**Last chapter, asked directly.** Balanced: yes left to right (route and red arc left, argument right). Large
+enough: no. Headline number fine, verdict marginal, everything in mono too small, and one node is off the edge.
+
+## 3. Sound (measured)
+
+| Measure | v2 | v3 | Target |
+|---|---|---|---|
+| Integrated loudness | -14.0 LUFS | -14.0 LUFS | -14 |
+| True peak | -1.9 dBFS | -1.9 dBFS | at or below -1 |
+| Loudness range | 1.4 LU | 1.4 LU | (very flat) |
+| Max sample / clipped samples | 0.777 / 0 | 0.777 / 0 | none |
+| Voice lines RMS (37 lines) | -16.9 dB | -16.9 dB (-17.5 to -16.0) | |
+| Gaps between lines (12 gaps) | -26.5 dB | -26.7 dB median | |
+| Bed alone after the last word (4:15.0) | -34.6 dB | -35.3 dB | |
+| End fade | -59.6 / -78.1 dB | 4:15 -35.3 → 4:16 -38.8 → 4:17 -45.6 → last 0.25 s -59.6 → last 50 ms -76.8 dB | faded, monotonic |
+| Per-10 s RMS | -16.8 to -17.6 | -16.8 to -17.6 | consistent |
+| L/R, digital silence | balanced, none | -17.19 / -17.18 dB, longest silence 32 ms | |
+
+Sound is unchanged from v2 and on target. No clipping. The bed is still about 18 dB under the voice (item 29, taste).
+
+## 4. Verdict
+
+Not publishable yet, and that is the picture speaking, separate from the content items the builder left open. v3
+did real work: red is finally used once and stays in shot, the lit cell's labels sit inside their boxes, the quote
+is whole, the leftover text in the meters scene is gone, the last chapter's column no longer scrolls into the top
+edge, and the illustration note can be read. But claim (b) is not true: every one of the three transits still shows
+chopped giant glyphs, a headline sliced by the frame edge on the way in and out of the new overview, and the first
+one still passes through 0.6 s of pure black at 0:29. The fade-out fix opened a new hole, about ten seconds of
+almost nothing at 1:33-1:43 while the voice explains a meter that is not drawn. The last chapter is balanced but
+too small and clips its first node for 37 seconds. Nineteen of forty earlier items are untouched (small mono notes,
+the four-parties boxes in an empty frame, the static 42 s close-up, caption cross-fades, the café label behind the
+plate). One more pass would do it: route each transit as a single direct move that never leaves a lit object (or
+hold the overview 2 s and enter and leave it at overview scale), fill 1:33-1:43, scale and reframe 3:30-4:07, and
+fix V2 and V3. The spoken interchange claim (item 4) remains a hard stop on its own.
